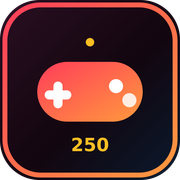
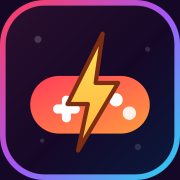
v2.10.0 2026-09-26

diff --git a/client/src/ui/Iconos.jsx b/client/src/ui/Iconos.jsx
@@ -249,12 +249,11 @@ export function LogoArcade({ size = 34 }) {
   return (
     <svg width={size} height={size} viewBox="0 0 24 24" fill="none" stroke="#fff"
       strokeWidth={1.9} strokeLinecap="round" strokeLinejoin="round" aria-hidden="true">
-      <path d="M7 12h10a4.5 4.5 0 0 1 4.5 4.5c0 2.2-1.3 4.8-3 4.8-1.3 0-1.8-1.3-2.4-2.6H7.9c-.6 1.3-1.1 2.6-2.4 2.6-1.7 0-3-2.6-3-4.8A4.5 4.5 0 0 1 7 12z" fill="rgba(255,255,255,.16)" />
-      <path d="M12 12V6.5" />
-      <circle cx="12" cy="4.8" r="2" fill="#fff" stroke="none" />
-      <path d="M7.4 14.4v2.6M6.1 15.7h2.6" />
-      <circle cx="15.4" cy="14.8" r=".9" fill="#fff" stroke="none" />
-      <circle cx="17.2" cy="16.6" r=".9" fill="#fff" stroke="none" />
+      <rect x="3" y="9" width="18" height="8.5" rx="4.25" fill="rgba(255,255,255,.16)" stroke="#fff" />
+      <path d="M7.6 11.4v3M6.1 12.9h3" />
+      <circle cx="15.4" cy="12.2" r=".9" fill="#fff" stroke="none" />
+      <circle cx="17.2" cy="14" r=".9" fill="#fff" stroke="none" />
+      <polygon points="13.2,3 9.6,11 11.9,11 10.8,17.5 14.8,9.5 12.4,9.5" fill="#ffd319" stroke="#fff" strokeWidth={1.2} />
     </svg>
   );
 }

diff --git a/client/src/styles.css b/client/src/styles.css
@@ -513,10 +513,11 @@ body[data-tema="claro"] .xp-bar { background: #e2e6f2; }
 .lat-jugador-txt small { color: var(--texto-suave); font-size: .74rem; }
 .lat-jugador .flecha { color: var(--texto-suave); }
 .lat-instalar {
-  display: flex; align-items: center; gap: 10px;
+  display: grid; gap: 10px;
   background: linear-gradient(135deg, rgba(34,197,94,.14), rgba(34,197,94,.05)), var(--bg-soft);
   border: 1px solid var(--border); border-radius: 12px; padding: 10px 12px; margin-bottom: 10px;
 }
+.lat-instalar-fila { display: flex; align-items: center; gap: 10px; min-width: 0; }
 .lat-instalar-ico {
   width: 40px; height: 40px; flex-shrink: 0; display: grid; place-items: center;
   border-radius: 12px; color: #fff;

diff --git a/client/src/App.jsx b/client/src/App.jsx
@@ -289,8 +289,10 @@ export default function App() {
         </button>
 
         <div className="lat-instalar">
-          <span className="lat-instalar-ico" aria-hidden><Icono n="descargar" size={22} /></span>
-          <span className="lat-instalar-txt"><b>Llévame contigo</b><small>Sin conexión · pantalla completa</small></span>
+          <div className="lat-instalar-fila">
+            <span className="lat-instalar-ico" aria-hidden><Icono n="descargar" size={22} /></span>
+            <span className="lat-instalar-txt"><b>Llévame contigo</b><small>Sin conexión · pantalla completa</small></span>
+          </div>
           <BotonInstalar variante="lateral" />
         </div>
 

diff --git a/client/public/sw.js b/client/public/sw.js
@@ -5,7 +5,7 @@
    - Assets propios (JS/CSS/imgs, incluidos los juegos lazy): stale-while-revalidate,
      así cada juego jugado una vez queda disponible offline.
    - /api: solo red (las puntuaciones nunca se cachean; el XP local sigue funcionando). */
-const VERSION = "aplm-v20";
+const VERSION = "aplm-v21";
 const SHELL = ["./", "./index.html", "./favicon.svg", "./icon-48.png", "./icon-192.png", "./icon-512.png", "./maskable-512.png", "./apple-touch-icon.png", "./site.webmanifest"];
 
 // Núcleo arrancable offline: shell + assets que index.html necesita (JS/CSS con hash).

diff --git a/CHANGELOG.md b/CHANGELOG.md
@@ -12,7 +12,10 @@
 - **Lateral remake 💅**: la parte superior ahora son tarjetas (identidad con
   mini-stats, jugador con nivel, instalar con icono propio y progreso con
   racha, medidor de probados, desafío y misiones sin encimarse).
-- PWA SW `aplm-v20` (fuerza actualización), versión visible 2.10.0.
+- **Icono nuevo 🎮⚡**: mando coral con rayo y aro degradado en favicon, app
+  instalada, Apple, portadas y logo interno (sin número para no caducar nunca).
+  Se genera con `npm run iconos`. Tarjeta de instalar reestructurada.
+- PWA SW `aplm-v21` (fuerza actualización), versión visible 2.10.0.
 
 ## v2.9.0 (2026-09-26) — Peleas, disparos, administración y remaster total
 - **+6 juegos de acción (274)**: Pelea Neón/Turbo (vs IA) y Pelea Duelo (2P local
